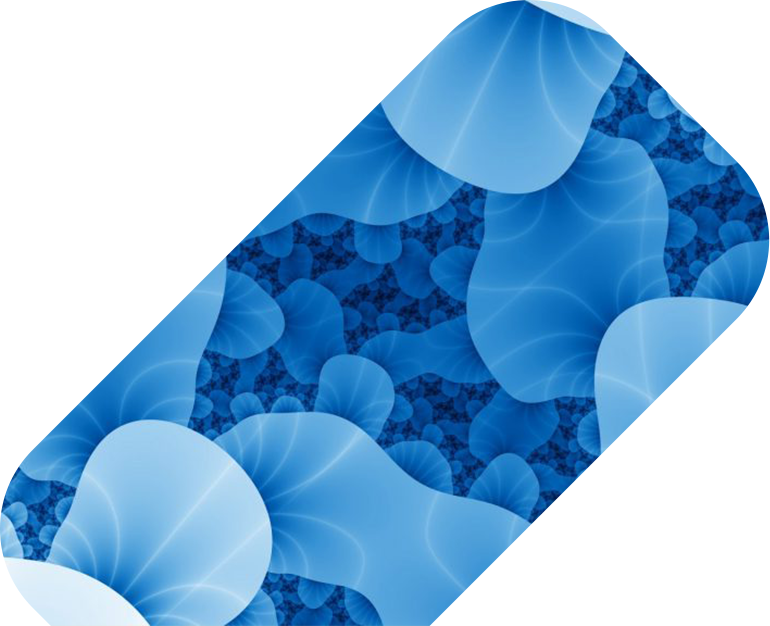
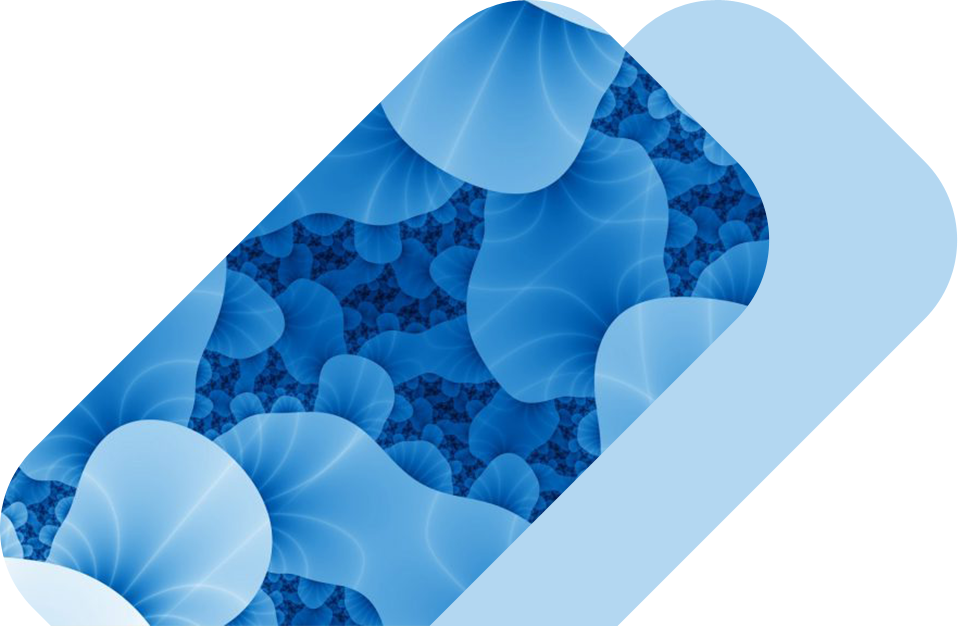
front ver.1.1.3

diff --git a/css/style.css b/css/style.css
@@ -282,11 +282,8 @@ table.table-test_info td {
 	overflow: hidden;
 	position: relative;
 }
-.wrap-test_img.second-info_img {
-    right: -900px;
-}
 .wrap-test_img.first-info_img {
-	right: -770px;
+	right: -950px;
     z-index: 2;
 }
 
@@ -550,10 +547,6 @@ table.table-test_info td {
 .medal {
 	margin-top: 70px;
 }
-.medal-desc {
-    float: right;
-    margin-left: 10px;
-}
 .wrapp-footer_bar {
 	padding-top: 40px;
 	margin-bottom: 40px;
@@ -576,5 +569,11 @@ table.table-test_info td {
 	line-height: 60px;
 	display: inline-block;
 	color: #343434;
+}
+.medal img {
+    float: left;
+}
+.medal-desc {
+    margin-left: 43px;
 }
 /*------------------------ / footer ------------------------*/

diff --git a/index.html b/index.html
@@ -144,9 +144,7 @@
 						<div class="wrap-test_img first-info_img">
 							<img src="img/item1.png" alt="item 1">
 						</div>
-						<div class="wrap-test_img second-info_img">
-							<img src="img/item2.png" alt="item 1">
-						</div>
+
 					</div>
 				</div>
 			</div>
